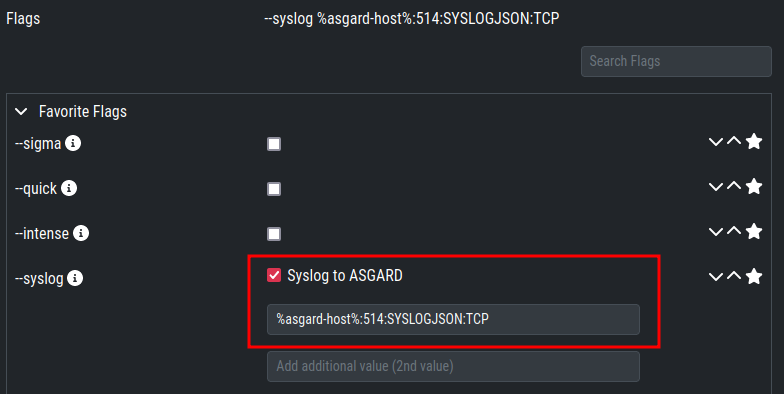
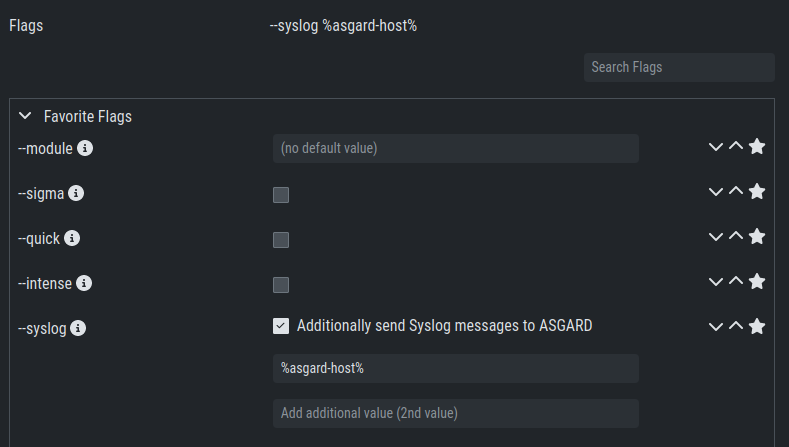
chore: outdated information regarding syslog forwarding

diff --git a/conf.py b/conf.py
@@ -38,7 +38,7 @@ templates_path = ['_templates']
 # List of patterns, relative to source directory, that match files and
 # directories to ignore when looking for source files.
 # This pattern also affects html_static_path and html_extra_path.
-exclude_patterns = ['_build', 'Thumbs.db', '.DS_Store']
+exclude_patterns = ['_build', 'Thumbs.db', '.DS_Store', '.venv/*']
 
 
 # -- Options for HTML output -------------------------------------------------

diff --git a/usage/administration.rst b/usage/administration.rst
@@ -738,37 +738,10 @@ With ASGARD 2.13+ these features can be globally defined in ASGARD at ``Scan Con
 Syslog Forwarding
 ^^^^^^^^^^^^^^^^^
 
-Syslog Forwarding is selected by default, with the ``%asgard-host%``
-target, if you create a new THOR scan task. This is a new feature
-in ASGARD which has a few advantages and why you should consider
-using it:
+.. hint::
+   This chapter is optional
 
-* You see live statistics of your THOR scans
-* You see at which stage the THOR scan is
-* You can see which module is being executed
-* You will see the last scanned element (helpful if a scan is stuck)
-* If a scan is being stopped by an outside process, no logs are
-  available (more information further down)
-* You can use :ref:`usage/administration:rsyslog forwarding` to forward
-  log lines immediately to the Cockpit/your SIEM
-
-A normal flow of information for a THOR scan looks like this:
-
-* New scan is being created on the ASGARD
-* Agent checks in a asks if any tasks are available
-* ASGARD assigns the newly created THOR scan task to the asset
-* Asset is downloading THOR from the ASGARD and starts scanning
-* THOR finished the scan and the Asset is forwarding the scan result
-  as a whole to the ASGARD
-
-This means that your scan results take a while until you see them
-in your ASGARD, since the results will be uploaded to the ASGARD
-**after** the scan has finished. This also means if an outside process
-(e.g. Antivirus or EDR) killed THOR during the scan, you will not have
-any results in your ASGARD and have to troubleshoot why the scan failed,
-mainly by running THOR in debugging mode manually on the endpoint.
-
-To configure syslog forwarding of logs, you can set the ``--syslog`` flag
+To configure Syslog Forwarding of logs, you can set the ``--syslog`` flag
 during scans. You have multiple options as to where you can send the logs.
 
 .. figure:: ../images/set-syslog-flag.png
@@ -791,11 +764,11 @@ separated with the colon sign ``:``
      - FQDN or IP of remote host
    * - 2
      - Port
-     - The listening port on the remote system - **optional**, default is ``514``
+     - **optional** - the listening port on the remote system, default is ``514``
      - 1 - 65535
    * - 3
      - Format
-     - The log format - **optional**, default is ``DEFAULT``
+     - **optional** - the log format, default is ``DEFAULT``
      - \- DEFAULT [1]_
      
        \- CEF
@@ -807,7 +780,7 @@ separated with the colon sign ``:``
        \- SYSLOGKV
    * - 4
      - Socket
-     - The socket type - **optional**, default is ``UDP``
+     - **optional** - The socket type, default is ``UDP``
      - \- UDP
 
        \- TCP
@@ -817,10 +790,12 @@ separated with the colon sign ``:``
 .. [1] This is the default log format of THOR.
 
 .. hint:: 
-   The syslog listener on the ASGARD is running on port UDP/514.
+   The syslog listener on the Management Center
+   is running on port UDP/514.
 
 Examples:
 
+* ``cribl.local:6514``
 * ``172.16.20.10:514:SYSLOGKV:TCP``
 * ``rsyslog-forwarder.dom.int:514:JSON:TCP``
 * ``arcsight.dom.int:514:CEF:UDP``
@@ -829,6 +804,17 @@ If you choose to use the ``--syslog`` flag, please make sure that the
 necessary ports are allowed within your network/firewall. If you decide
 to forward your logs via ASGARD to a SIEM, please have a look at
 :ref:`usage/administration:Rsyslog Forwarding`.
+
+.. note::
+   If Syslog Forwarding is selected for a new THOR Scan, the default
+   target will be set to ``%asgard-host%``, which is your Management
+   Center. Syslog Forwarding is optional and you do not lose any
+   functionality if you are not using it (in most cases). If you
+   want to forward logs in real-time from your Management Center to
+   a SIEM (for example), you do however have to enable Syslog Forwarding.
+
+   Please see :ref:`usage/administration:rsyslog forwarding` for more
+   information
 
 Response Control
 ----------------
